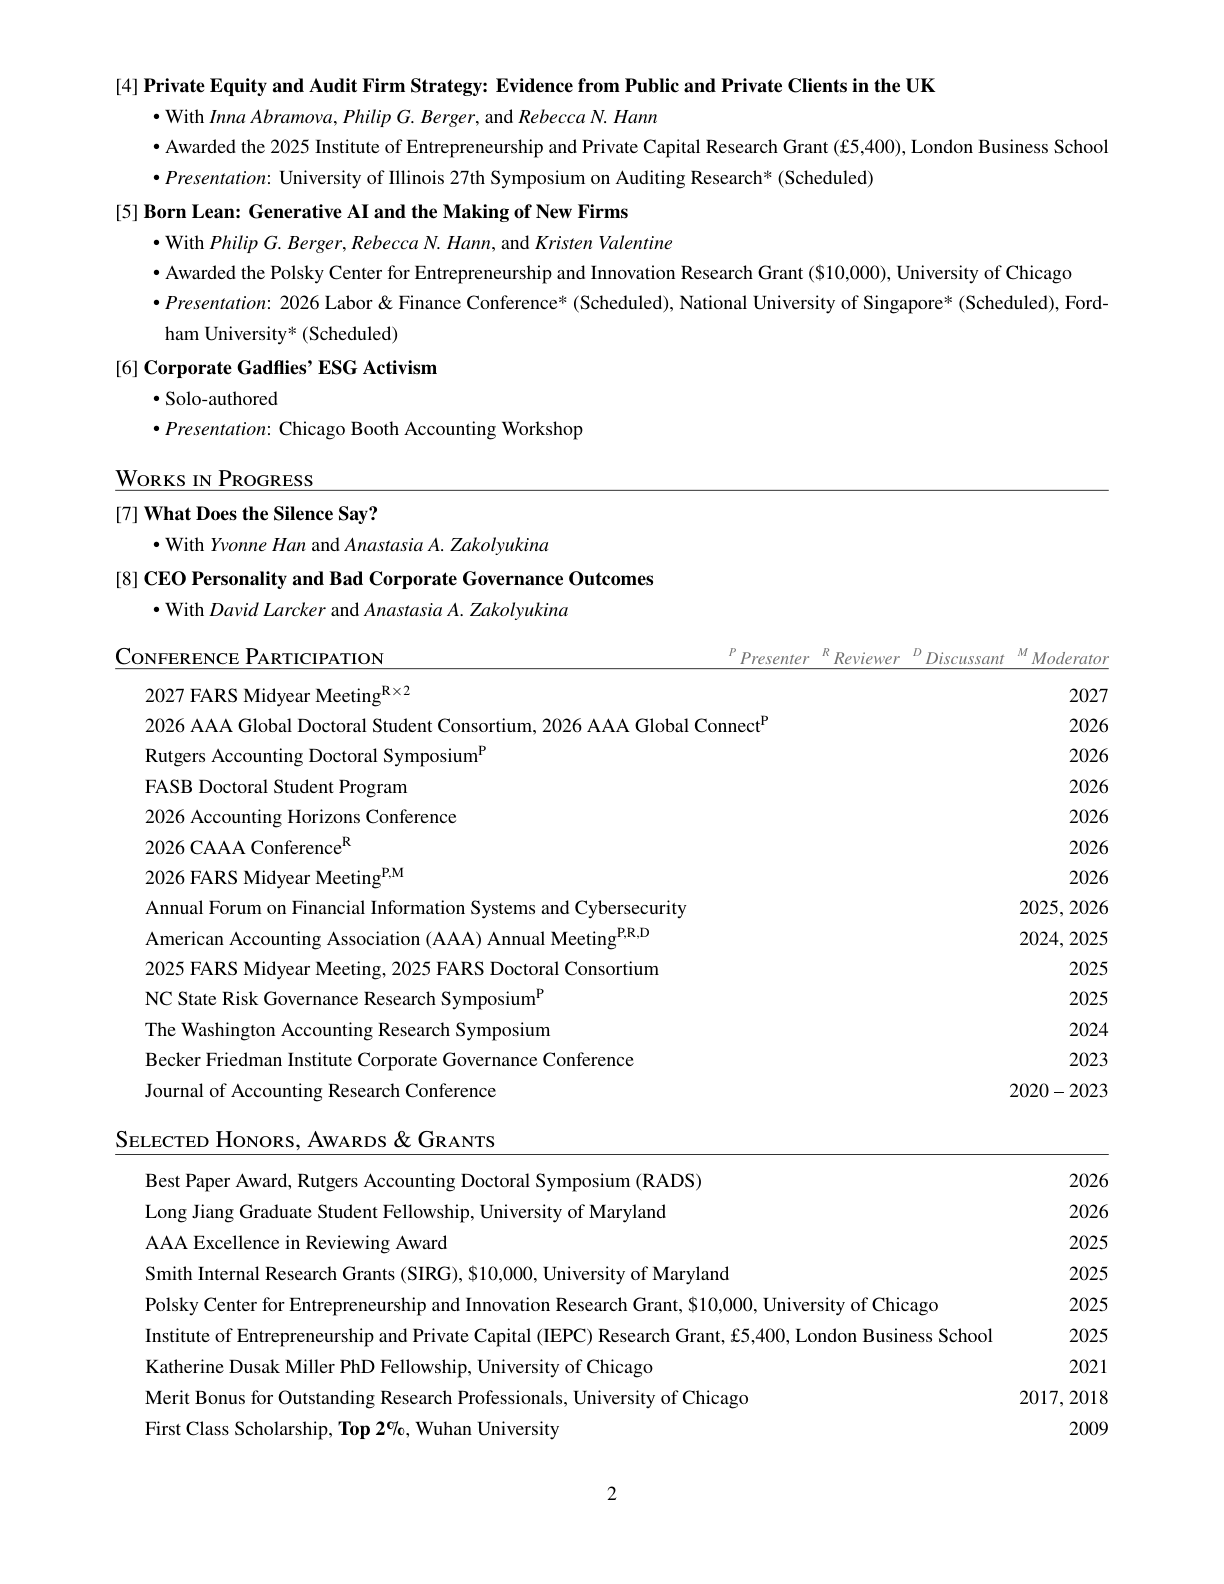
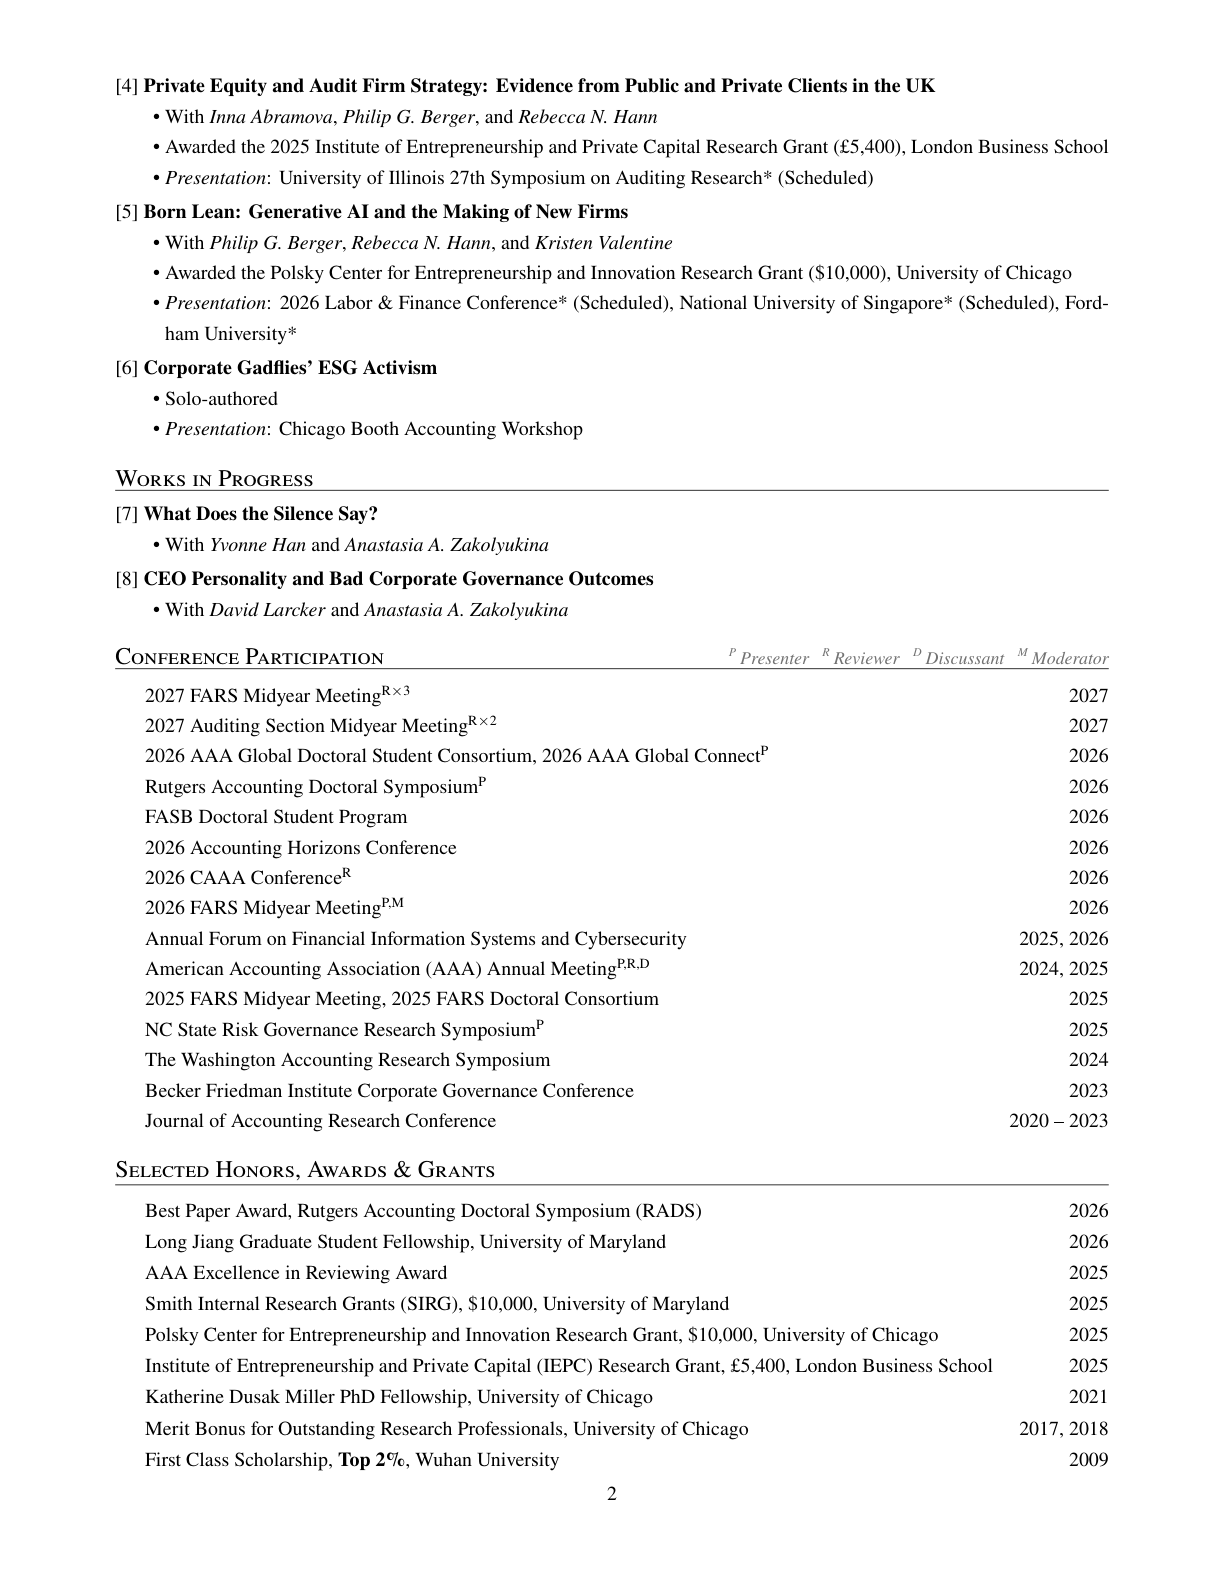
CV: add the 2027 Auditing Section Midyear Meeting, third FARS review, Fordham talk delivered
Claude-Session: https://claude.ai/code/session_01K7cQ8hrTgCo8pDyPgT94zU

diff --git a/cv/index.html b/cv/index.html
@@ -1,6 +1,6 @@
 <!doctype html>
 <!-- This site was created with Hugo Blox. https://hugoblox.com -->
-<!-- Last Published: September 19, 2026 --><html lang="en-us" dir="ltr"
+<!-- Last Published: September 23, 2026 --><html lang="en-us" dir="ltr"
       data-wc-theme-default="light">
   
 <head>
@@ -485,7 +485,7 @@
       
         
           <div class="cv-page">
-            <img src="/media/cv/page-01.png?v=4860653403" alt="Curriculum vitae page 1" loading="lazy">
+            <img src="/media/cv/page-01.png?v=321e3da4f9" alt="Curriculum vitae page 1" loading="lazy">
             
               
                 
@@ -514,7 +514,7 @@
       
         
           <div class="cv-page">
-            <img src="/media/cv/page-02.png?v=4860653403" alt="Curriculum vitae page 2" loading="lazy">
+            <img src="/media/cv/page-02.png?v=321e3da4f9" alt="Curriculum vitae page 2" loading="lazy">
             
               
                 
@@ -525,7 +525,7 @@
       
         
           <div class="cv-page">
-            <img src="/media/cv/page-03.png?v=4860653403" alt="Curriculum vitae page 3" loading="lazy">
+            <img src="/media/cv/page-03.png?v=321e3da4f9" alt="Curriculum vitae page 3" loading="lazy">
             
               
                 

diff --git a/404.html b/404.html
@@ -1,6 +1,6 @@
 <!doctype html>
 <!-- This site was created with Hugo Blox. https://hugoblox.com -->
-<!-- Last Published: September 19, 2026 --><html lang="en-us" dir="ltr"
+<!-- Last Published: September 23, 2026 --><html lang="en-us" dir="ltr"
       data-wc-theme-default="light">
   
 <head>

diff --git a/categories/index.html b/categories/index.html
@@ -1,6 +1,6 @@
 <!doctype html>
 <!-- This site was created with Hugo Blox. https://hugoblox.com -->
-<!-- Last Published: September 19, 2026 --><html lang="en-us" dir="ltr"
+<!-- Last Published: September 23, 2026 --><html lang="en-us" dir="ltr"
       data-wc-theme-default="light">
   
 <head>

diff --git a/index.html b/index.html
@@ -1,6 +1,6 @@
 <!doctype html>
 <!-- This site was created with Hugo Blox. https://hugoblox.com -->
-<!-- Last Published: September 19, 2026 --><html lang="en-us" dir="ltr"
+<!-- Last Published: September 23, 2026 --><html lang="en-us" dir="ltr"
       data-wc-theme-default="light">
   
 <head>

diff --git a/research/index.html b/research/index.html
@@ -1,6 +1,6 @@
 <!doctype html>
 <!-- This site was created with Hugo Blox. https://hugoblox.com -->
-<!-- Last Published: September 19, 2026 --><html lang="en-us" dir="ltr"
+<!-- Last Published: September 23, 2026 --><html lang="en-us" dir="ltr"
       data-wc-theme-default="light">
   
 <head>

diff --git a/software/index.html b/software/index.html
@@ -1,6 +1,6 @@
 <!doctype html>
 <!-- This site was created with Hugo Blox. https://hugoblox.com -->
-<!-- Last Published: September 19, 2026 --><html lang="en-us" dir="ltr"
+<!-- Last Published: September 23, 2026 --><html lang="en-us" dir="ltr"
       data-wc-theme-default="light">
   
 <head>

diff --git a/tags/index.html b/tags/index.html
@@ -1,6 +1,6 @@
 <!doctype html>
 <!-- This site was created with Hugo Blox. https://hugoblox.com -->
-<!-- Last Published: September 19, 2026 --><html lang="en-us" dir="ltr"
+<!-- Last Published: September 23, 2026 --><html lang="en-us" dir="ltr"
       data-wc-theme-default="light">
   
 <head>

diff --git a/teaching/index.html b/teaching/index.html
@@ -1,6 +1,6 @@
 <!doctype html>
 <!-- This site was created with Hugo Blox. https://hugoblox.com -->
-<!-- Last Published: September 19, 2026 --><html lang="en-us" dir="ltr"
+<!-- Last Published: September 23, 2026 --><html lang="en-us" dir="ltr"
       data-wc-theme-default="light">
   
 <head>
